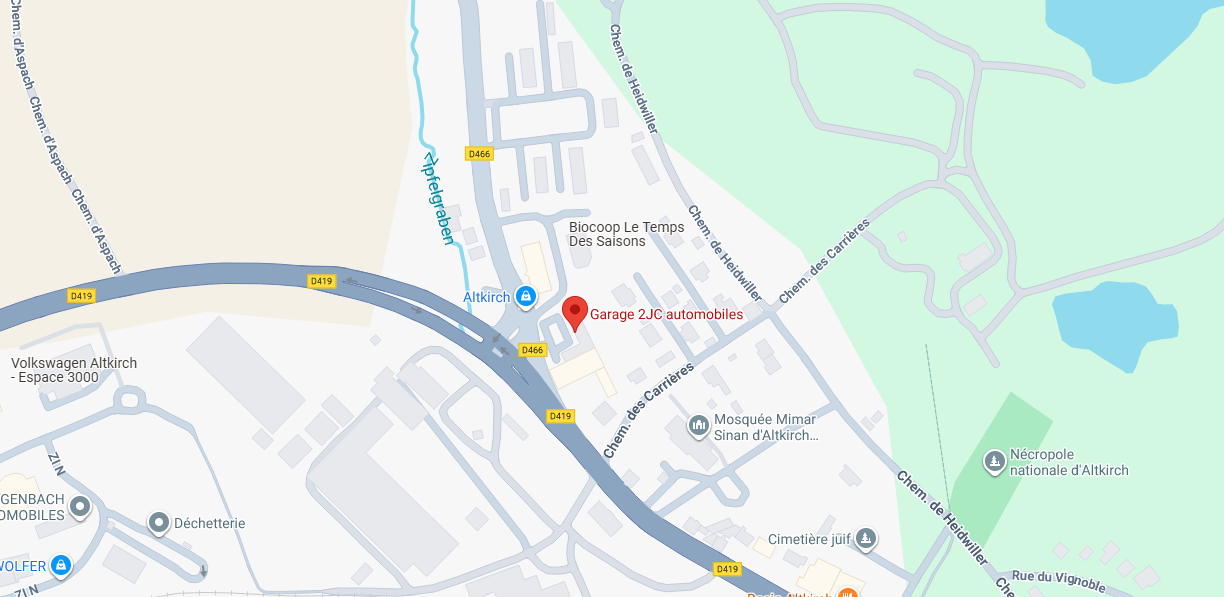
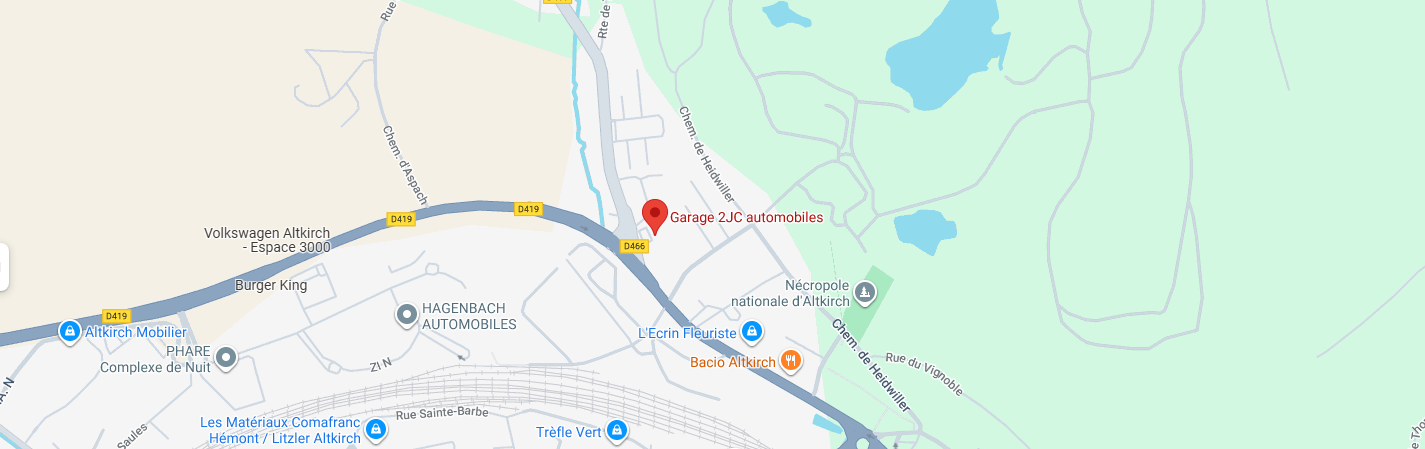
ajustement du style pour la nouvelle map

diff --git a/public/css/style.css b/public/css/style.css
@@ -472,18 +472,20 @@ h1, h2, h3, h4 {
     background-color: transparent;
 }
 
-.google_maps {
+.maps {
     flex: 7;
     height: 28.125rem; 
     border-radius: 0.75rem 0 0 0.75rem;
     overflow: hidden;
 }
 
-.google_maps iframe {
+.maps img {
     width: 100%;
     height: 100%;
     border: none;
     display: block;
+    object-fit: cover;
+    object-position: center;
 }
 
 .localisation {
@@ -522,14 +524,6 @@ h1, h2, h3, h4 {
         &:hover {
             opacity: 0.7;
         }
-    }
-}
-
-.localisation .cta-blue {
-    display: inline-block; 
-    margin-top: 1rem !important;
-    &:hover {
-        opacity: 1;
     }
 }
 
